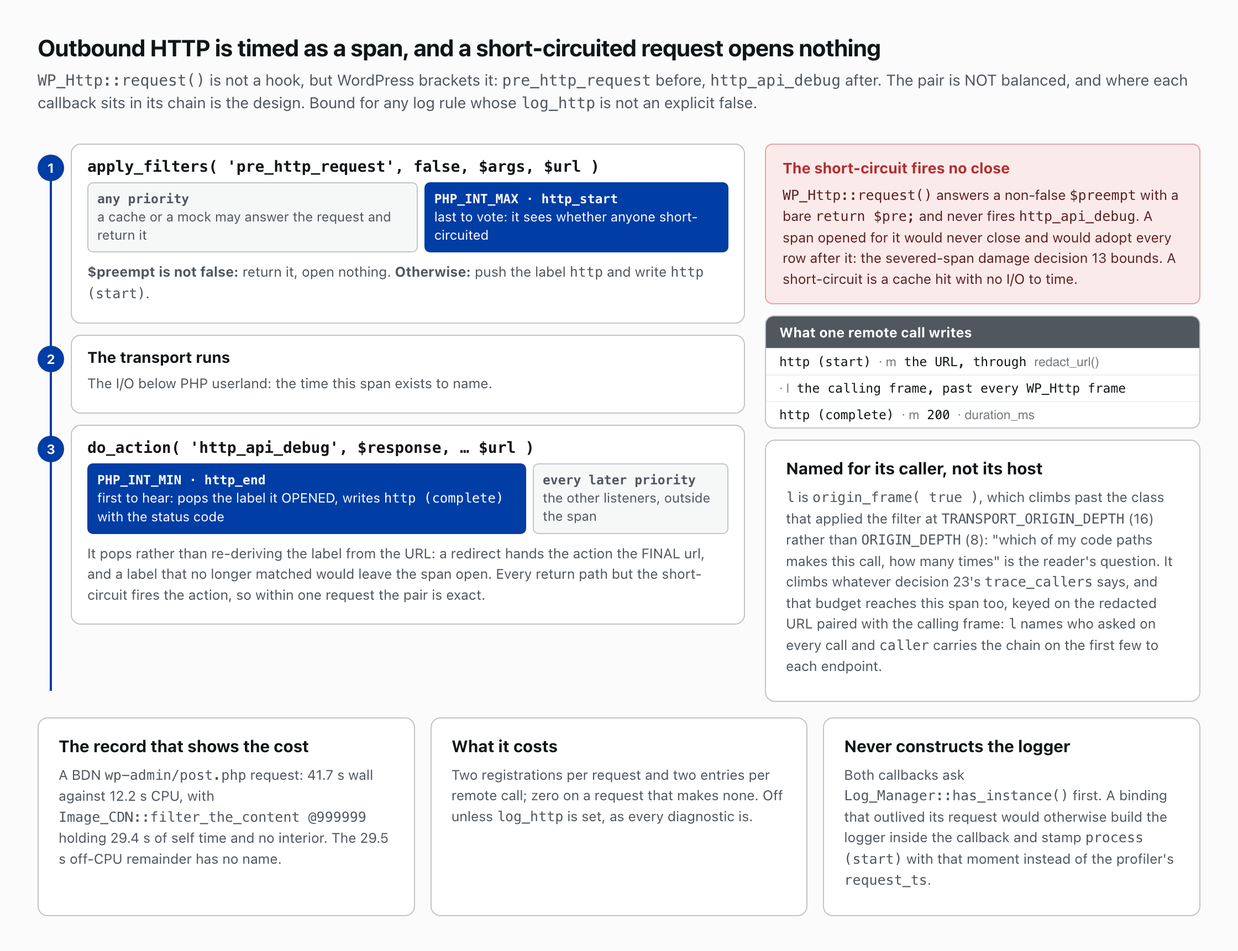
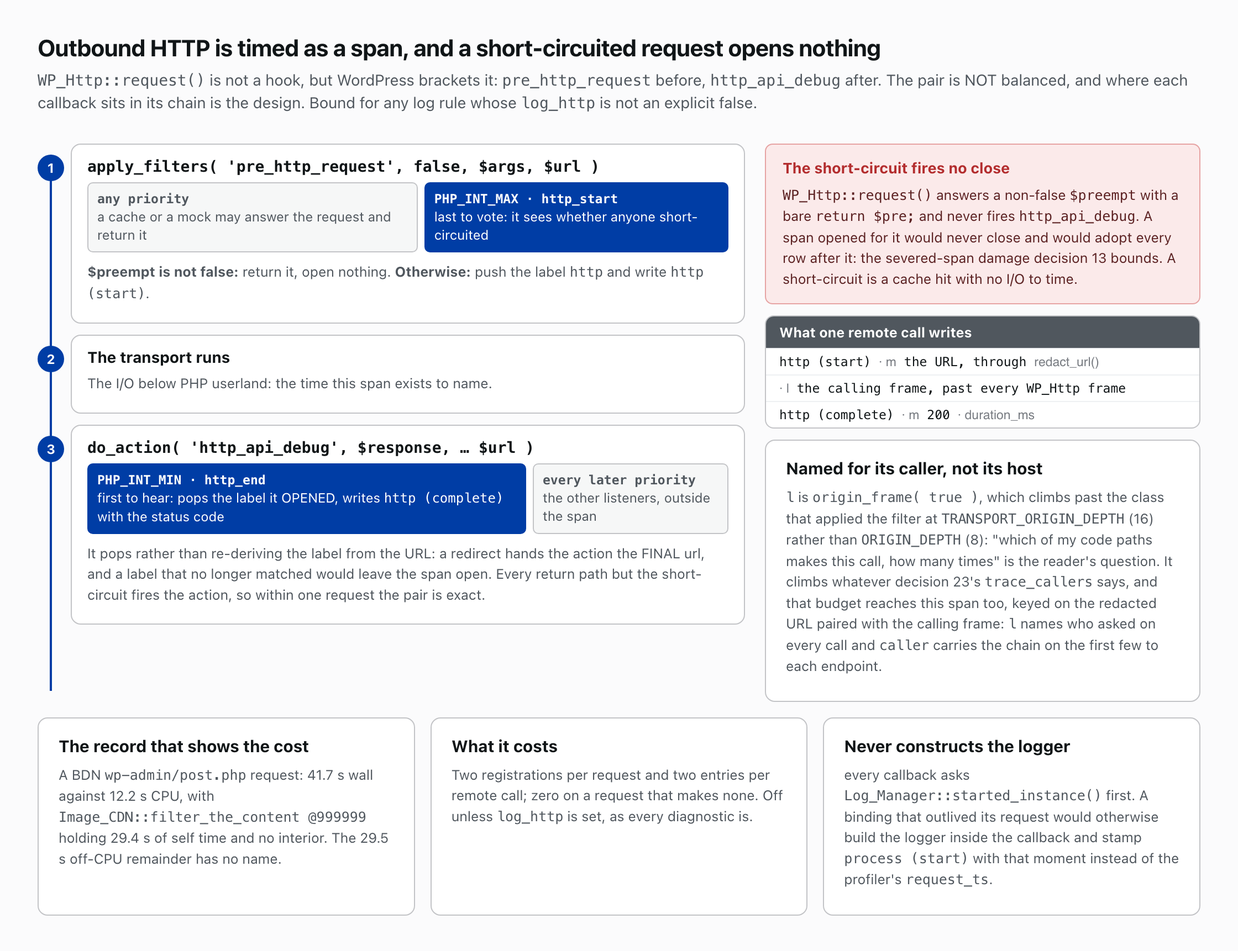
fix(core): a wrapped listener asks for a started logger; one seam for every callback
Cycle two's ADR pass. The permanent callback wrapper called
Log_Manager::instance() ungated, so a wrapper outliving its request
constructed the logger inside a callback, the case decision 20 was
written for; it now asks started_instance() like every other callback
and calls through untimed when there is nowhere to log. hook_start(),
query_end() and http_end() read the same seam. Flame_Tree::listener_name()
mints what is_listener_span() reads, pinned by a test with a negative
priority, and Rule::logs_transport() has its own. Decision 5 names
measured() on both sides, decision 20 names the seam, decision 27 has its
AGENTS row and a live link, two diagram sheets stop calling log_http on
by default, and the post-release changes are in the CHANGELOG.

Changed region(s): [[0.6875, 0.8002, 0.9375, 0.9541]]

diff --git a/docs/img/ag-request-lifecycle.html b/docs/img/ag-request-lifecycle.html
@@ -45,7 +45,7 @@
     <p><span class="mono">wrap_callbacks()</span> wraps only priorities strictly between the start and the spacer, so the three never wrap themselves; it skips any callback whose reflection reports a by-reference parameter; each wrapper claims <span class="mono">accepted_args = 99</span> and slices back to the original's count. The spacer absorbs the pointer shift a self-removing filter (es-wp-query) causes, so <span class="mono">hook_complete</span> still fires. A rule with <span class="mono">trace_hooks</span> puts the calling frame on <span class="mono">l</span>.</p></div></div>
   <div class="ev"><div class="when"><b>per rule</b>two transport pairs</div><div class="card">
     <div class="pair">
-      <div><h3>Outbound HTTP, <span class="mono">log_http</span> on by default</h3><p><span class="mono">http_start</span> on <span class="mono">pre_http_request</span> at <span class="mono">PHP_INT_MAX</span>, after every short-circuiting filter has voted, and opens NOTHING when <span class="mono">$preempt</span> is not false. <span class="mono">http_end</span> on <span class="mono">http_api_debug</span> at <span class="mono">PHP_INT_MIN</span>, so the span covers the request rather than the other listeners there, closing the label it opened.</p></div>
+      <div><h3>Outbound HTTP, under <span class="mono">log_http</span></h3><p><span class="mono">http_start</span> on <span class="mono">pre_http_request</span> at <span class="mono">PHP_INT_MAX</span>, after every short-circuiting filter has voted, and opens NOTHING when <span class="mono">$preempt</span> is not false. <span class="mono">http_end</span> on <span class="mono">http_api_debug</span> at <span class="mono">PHP_INT_MIN</span>, so the span covers the request rather than the other listeners there, closing the label it opened.</p></div>
       <div><h3>SQL, <span class="mono">log_queries</span> off by default</h3><p><span class="mono">query_start</span> on the <span class="mono">query</span> filter at <span class="mono">hook_start_priority</span>, ahead of the chain, so the span covers every rewrite; <span class="mono">query_end</span>, the one that sees the rewritten SQL, on <span class="mono">log_query_custom_data</span> at <span class="mono">PHP_INT_MIN</span>, which fires only under <span class="mono">SAVEQUERIES</span>. It drains <span class="mono">$wpdb-&gt;queries</span>, so Query Monitor would find it empty.</p></div>
     </div>
     <p>Both spans label <span class="mono">l</span> with <span class="mono">origin_frame( true )</span>, which climbs past the transport class, up to <span class="mono">TRANSPORT_ORIGIN_DEPTH</span> 16 frames, to the code that asked. It climbs whatever <span class="mono">trace_callers</span> says, and that budget reaches these spans as well as a hook: <span class="mono">l</span> names one frame on every call, <span class="mono">caller</span> carries the deeper chain while the budget for that statement shape or URL lasts.</p></div></div>

diff --git a/docs/img/api-request-hooks.html b/docs/img/api-request-hooks.html
@@ -41,7 +41,7 @@
       </div>
       <p>Two more pairs, each closed ahead of the other listeners so the span covers the work and not its audience. The HTTP pair opens after every filter that could short-circuit the call; the query pair opens ahead of the filter chain:</p>
       <div class="pri">
-        <div class="chip"><b>log_http (absent means ON)</b><span class="m">pre_http_request @ PHP_INT_MAX</span> (3 args) opens <span class="m">http</span>, and only when <span class="m">$preempt</span> is false: a short-circuit fires no <span class="m">http_api_debug</span>, so a span opened for one would never close. <span class="m">http_api_debug @ PHP_INT_MIN</span> (5 args) closes it with the status code.</div>
+        <div class="chip"><b>log_http (off unless set)</b><span class="m">pre_http_request @ PHP_INT_MAX</span> (3 args) opens <span class="m">http</span>, and only when <span class="m">$preempt</span> is false: a short-circuit fires no <span class="m">http_api_debug</span>, so a span opened for one would never close. <span class="m">http_api_debug @ PHP_INT_MIN</span> (5 args) closes it with the status code.</div>
         <div class="chip"><b>log_queries (default off)</b>defines <span class="m">SAVEQUERIES</span> if it is not already. <span class="m">query @ hook_start_priority</span> opens <span class="m">sql</span> ahead of the filter chain, so a significant <span class="m">query</span> hook's wrapped callbacks nest inside it; <span class="m">log_query_custom_data @ PHP_INT_MIN</span> (5 args) closes it with the rewritten statement, literals replaced, and drains <span class="m">$wpdb-&gt;queries</span>.</div>
       </div>
       <p class="aside">The same closure also registers the job-context filter and action, the <span class="m">newspack_nodes/settings_sync/value</span> resolver, and the MCP route on <span class="m">rest_api_init</span>; the three service CIs mount later, on <span class="m">newspack_nodes/request_graph_ready</span>, when a command request builds its graph.</p>

diff --git a/docs/img/dec-http-span.html b/docs/img/dec-http-span.html
@@ -61,6 +61,6 @@
   <div class="card"><h3>What it costs</h3>
     <p>Two registrations per request and two entries per remote call; zero on a request that makes none. Off unless <span class="mono">log_http</span> is set, as every diagnostic is.</p></div>
   <div class="card"><h3>Never constructs the logger</h3>
-    <p>Both callbacks ask <span class="mono">Log_Manager::has_instance()</span> first. A binding that outlived its request would otherwise build the logger inside the callback and stamp <span class="mono">process (start)</span> with that moment instead of the profiler's <span class="mono">request_ts</span>.</p></div>
+    <p>every callback asks <span class="mono">Log_Manager::started_instance()</span> first. A binding that outlived its request would otherwise build the logger inside the callback and stamp <span class="mono">process (start)</span> with that moment instead of the profiler's <span class="mono">request_ts</span>.</p></div>
 </div>
 </div>

diff --git a/includes/app/class-core.php b/includes/app/class-core.php
@@ -91,6 +91,9 @@ class Core {
 	 */
 	private const SQL_STATE  = Flame_Tree::SQL_STATE;
 
+	/** The state an outbound HTTP span is logged under. */
+	private const HTTP_STATE = Flame_Tree::HTTP_STATE;
+
 	/** The hook the SQL span rides; also the one it makes a generic pair redundant on. */
 	private const QUERY_HOOK = 'query';
 
@@ -166,7 +169,6 @@ class Core {
 
 	/** What a string has to open with before it is treated as a statement. */
 	private const SQL_LEAD = '/\A\s*(?:SELECT|INSERT|UPDATE|DELETE|REPLACE|SHOW|DESCRIBE|EXPLAIN|CREATE|ALTER|DROP|TRUNCATE)\b/i';
-	private const HTTP_STATE = Flame_Tree::HTTP_STATE;
 
 	/** Dispatchers between a hook and its caller; flipped for O(1) lookup. */
 	private const HOOK_DISPATCHERS = [
@@ -245,8 +247,8 @@ class Core {
 	 */
 	public function hook_start( $v = null ) {
 		// Resolve LM fresh per-call so suspend/resume gets the current scope.
-		$lm = Log_Manager::instance();
-		if ( ! $lm->is_started() ) {
+		$lm = Log_Manager::started_instance();
+		if ( null === $lm ) {
 			return $v;
 		}
 
@@ -637,10 +639,14 @@ class Core {
 				}
 
 				// Wrap timing; resolve LM per-call to survive suspend/resume.
-				$label   = self::short_name( $original ) . Flame_Tree::LISTENER_SEPARATOR . $priority;
+				$label   = Flame_Tree::listener_name( self::short_name( $original ), $priority );
 				$wrapper = function () use ( $original, $accepted_args, $label ) {
-					$lm   = Log_Manager::instance();
 					$args = \array_slice( \func_get_args(), 0, $accepted_args );
+					// Outlives its request: nowhere to log, call through.
+					$lm = Log_Manager::started_instance();
+					if ( null === $lm ) {
+						return \call_user_func_array( $original, $args );
+					}
 					$lm->start( $label, [ 'l' => '' ] );
 					try {
 						$result = \call_user_func_array( $original, $args );
@@ -848,12 +854,13 @@ class Core {
 	 */
 	public function query_end( $data = null, string $query = '', float $query_time = 0.0, string $callstack = '', float $query_start = 0.0 ) {
 		$label = \array_pop( $this->query_spans );
-		if ( null === $label || ! Log_Manager::has_instance() ) {
+		$lm = Log_Manager::started_instance();
+		if ( null === $label || null === $lm ) {
 			return $data;
 		}
 		// Only here is the statement the one the database was actually asked.
 		$sql = self::without_literals( self::without_host_annotation( $query ) );
-		Log_Manager::instance()->complete( $label, '' === $sql ? [] : [ 'm' => $sql ], shaped: true );
+		$lm->complete( $label, '' === $sql ? [] : [ 'm' => $sql ], shaped: true );
 		// `property_exists`: never CREATE it on a double that has none.
 		if ( isset( $GLOBALS['wpdb'] ) && \is_object( $GLOBALS['wpdb'] )
 			&& \property_exists( $GLOBALS['wpdb'], 'queries' ) ) {
@@ -946,12 +953,13 @@ class Core {
 	 */
 	public function http_end( $response = null, string $context = '', string $class = '', array $args = [], string $url = '' ): void {
 		$label = \array_pop( $this->http_spans );
-		if ( null === $label || ! Log_Manager::has_instance() ) {
+		$lm = Log_Manager::started_instance();
+		if ( null === $label || null === $lm ) {
 			return;
 		}
 		$inner = \is_array( $response ) ? RuntimeCore::arr( $response['response'] ?? null, [] ) : [];
 		$code  = RuntimeCore::as_string( $inner['code'] ?? '', '' );
-		Log_Manager::instance()->complete( $label, '' === $code ? [] : [ 'm' => $code ] );
+		$lm->complete( $label, '' === $code ? [] : [ 'm' => $code ] );
 	}
 
 	/**

diff --git a/tests/unit/AppCoreTest.php b/tests/unit/AppCoreTest.php
@@ -1477,6 +1477,26 @@ class AppCoreTest extends TestCase {
 		$this->assertSame( 99, $wp_filter['the_content']->callbacks[10]['test_cb']['accepted_args'] );
 	}
 
+	/** A wrapper outlives its request; firing with no logger, it runs the original and constructs nothing. */
+	public function test_a_wrapper_firing_without_a_logger_constructs_none_and_calls_through(): void {
+		$this->require_priority_aware_add_filter_or_skip();
+		$this->set_governing_rule(
+			new Rule( 'r', '/', Rule::ACTION_LOG, hooks: [ 'the_content' ], significant_events: [ 'the_content' ] )
+		);
+		$core = new Core();
+		$GLOBALS['_wp_test_current_filter'] = 'the_content';
+		$hook            = new \WP_Hook();
+		$hook->callbacks = [ 10 => [ 'cb' => [ 'function' => static fn ( $v ) => $v . ' seen', 'accepted_args' => 1 ] ] ];
+		global $wp_filter;
+		$wp_filter['the_content'] = $hook;
+		$core->hook_start( 'x' );
+		$wrapped = $wp_filter['the_content']->callbacks[10]['cb']['function'];
+		Log_Manager::reset();
+
+		$this->assertSame( 'body seen', $wrapped( 'body' ) );
+		$this->assertFalse( Log_Manager::has_instance() );
+	}
+
 	public function test_wrap_callbacks_skips_start_priority(): void {
 		$this->require_priority_aware_add_filter_or_skip();
 		$this->use_config( [

diff --git a/includes/class-flame-tree.php b/includes/class-flame-tree.php
@@ -45,8 +45,8 @@ final class Flame_Tree {
 	/** What `App\Core::hook_start()` appends to a hook's name to make its span's. */
 	public const HOOK_SUFFIX = ' hook';
 
-	/** What `App\Core::wrap_callbacks()` puts between a listener's callable and its priority. */
-	public const LISTENER_SEPARATOR = ' @';
+	/** What `listener_name()` puts between a listener's callable and its priority. */
+	private const LISTENER_SEPARATOR = ' @';
 
 	/**
 	 * A wrapped listener's span: `<callable> @<priority>`, built from the
@@ -553,6 +553,18 @@ final class Flame_Tree {
 	public static function base_name( string $name ): string {
 		$at = \strpos( $name, ': ' );
 		return false === $at ? $name : \substr( $name, 0, $at );
+	}
+
+	/**
+	 * A wrapped listener's span name, as `App\Core::wrap_callbacks()` mints it
+	 * and `is_listener_span()` reads it: one format, one owner.
+	 *
+	 * @param string $callable The listener's short name.
+	 * @param int    $priority The priority it is registered at, sign and all.
+	 * @return string
+	 */
+	public static function listener_name( string $callable, int $priority ): string {
+		return $callable . self::LISTENER_SEPARATOR . $priority;
 	}
 
 	/**

diff --git a/tests/unit/RuleTest.php b/tests/unit/RuleTest.php
@@ -4,6 +4,7 @@ declare( strict_types=1 );
 namespace Newspack_Event_Logger_Nodes\Tests\Unit;
 
 use PHPUnit\Framework\TestCase;
+use Newspack_Event_Logger_Nodes\Flame_Tree;
 use Newspack_Event_Logger_Nodes\Rule;
 
 final class RuleTest extends TestCase {
@@ -175,5 +176,15 @@ final class RuleTest extends TestCase {
 		$this->assertTrue( $rule->marks_significant( 'sql' ) );
 		$this->assertFalse( $rule->marks_significant( 'the_content hook' ) );
 		$this->assertFalse( $rule->marks_significant( 'wp_loaded' ) );
+	}
+
+	/** Each transport's gate is its own flag, and a name that is no transport is refused. */
+	public function test_logs_transport_reads_the_flag_its_span_needs(): void {
+		$rule = new Rule( 'a1b2c3d4e5f6', '/calendar/today', Rule::ACTION_LOG, log_http: true );
+
+		$this->assertTrue( $rule->logs_transport( Flame_Tree::HTTP_STATE ) );
+		$this->assertFalse( $rule->logs_transport( Flame_Tree::SQL_STATE ) );
+		$this->expectException( \InvalidArgumentException::class );
+		$rule->logs_transport( 'the_content' );
 	}
 }

diff --git a/tests/unit/FlameTreeTest.php b/tests/unit/FlameTreeTest.php
@@ -408,4 +408,10 @@ class FlameTreeTest extends TestCase {
 		$this->assertFalse( Flame_Tree::is_hook_span( 'wp_loaded' ) );
 		$this->assertFalse( Flame_Tree::is_hook_span( 'sync remote plugin' ) );
 	}
+
+	/** The name the minter builds is the name the classifier reads, sign included. */
+	public function test_listener_name_is_what_is_listener_span_reads(): void {
+		$this->assertTrue( Flame_Tree::is_listener_span( Flame_Tree::listener_name( 'Image_CDN::filter_the_content', -5 ) ) );
+		$this->assertSame( 'Image_CDN::filter_the_content @999999', Flame_Tree::listener_name( 'Image_CDN::filter_the_content', 999999 ) );
+	}
 }

diff --git a/includes/class-log-manager.php b/includes/class-log-manager.php
@@ -945,6 +945,8 @@ class Log_Manager {
 	 * span opened by a binding that outlived its request would build the
 	 * logger at that moment — stamping `process (start)` with the callback's
 	 * time rather than the mu-profiler's `request_ts`.
+	 *
+	 * @api Used by tests, which ask whether instrumentation constructed a logger.
 	 */
 	public static function has_instance(): bool {
 		return null !== self::$instance;

diff --git a/docs/architecture-decisions.md b/docs/architecture-decisions.md
@@ -80,7 +80,7 @@ A memcache schema change here is migrated by the substrate's flush, `wp nodes me
 
 ![The salt rotation drawn on two key forms. Left, memcache: a stats key as the substrate Table writes it through Cache_Backend::site_key(), newspack_nodes:{v}: then a 12-hex scope, the first 12 hex of md5(DB_NAME : table prefix : salt), then :table:evlog:p0:hourly and the bucket. wp nodes memcache flush runs Cache_Backend::rotate_salt(), which stores a new salt, and the same logical key moves under a new scope while the old key sits in memcache until its TTL with nothing ever asking for it; Stats_Store keeps no salt of its own, and a long-running worker memoizes the scope, so workers restart for immediate effect. Right, the durable mirror: evlog:p0:{key} carries no install scope, so the rotation reaches nothing on disk, and the key carries no version component — a frame the merge cannot name is refused by sum_entry(), contributes nothing and leaves with its retention window. Below: skipping the flush reads garbage for one retention window, an operator error with a one-command fix; no reader or writer carries a shape probe, a version component in a memcache key or a row-level legacy test; and schema bumps and emergency flushes share the one rotation.](img/dec-salt-rotation.png)
 
-**The durable mirror is the one tier the button does not reach**, by [decision 10](#decision-10-the-durable-mirror-writes-a-bucket-once-when-it-closes-under-a-key-that-carries-no-install-scope), and it takes no version component of its own to compensate. `sum_entry()` rebuilds an entry from its field table, so an entry the flush TOUCHES cannot come out a hybrid of two shapes — it comes out zeros. It is the UNTOUCHED entry that needs answering, because `sum_fields()` starts from the stored bucket and re-derives only the keys the incoming flush names, so a stale one is copied through verbatim. **What removes those is the zero-count filter, and only four namespaces have one**: an entry whose shape the table cannot name reads its count index as absent, so `cap_dim()` and `fold_categories()` drop it at the next write to its bucket, clearing `dim`, `url_dim`, `categories` and `url_cat`. **The rest are the exposure**, and none of them rebuilds: `add_totals()` replaces its sum onto the stored `hourly` bucket so a field outside `HOURLY_SUMS` rides through, `merge_leaderboard_bucket()` rebuilds only the categories the flush names in `lb` and `lb_s`, the `urls` row and `url` merge by passthrough — `url` only when `set_flame_topn` is non-zero, since 0 mirrors none — and `urlnames` and `urlmap` have no field table at all. A shape change to those is migrated by the flush, by one retention window, and by nothing else: the price of keeping one migration mechanism rather than two, and the reason to weigh a shape change there rather than the reason to build a lever.
+**The durable mirror is the one tier the button does not reach**, by [decision 10](#decision-10-the-durable-mirror-writes-a-bucket-once-when-it-closes-under-a-key-that-carries-no-install-scope), and it takes no version component of its own to compensate. `sum_entry()` rebuilds an entry from its field table, so an entry the flush TOUCHES cannot come out a hybrid of two shapes — it comes out zeros. It is the UNTOUCHED entry that needs answering, because `sum_fields()` starts from the stored bucket and re-derives only the keys the incoming flush names, so a stale one is copied through verbatim. **What removes those is the zero-count filter, and only four namespaces have one**: an entry whose shape the table cannot name reads its count index as absent, so `Stats_Store::measured()` drops it, at the writer's next write to its bucket through `cap_dim()` and `fold_categories()` and at every read through `Performance_CI_Node`'s merges, clearing `dim`, `url_dim`, `categories` and `url_cat`. **The rest are the exposure**, and none of them rebuilds: `add_totals()` replaces its sum onto the stored `hourly` bucket so a field outside `HOURLY_SUMS` rides through, `merge_leaderboard_bucket()` rebuilds only the categories the flush names in `lb` and `lb_s`, the `urls` row and `url` merge by passthrough — `url` only when `set_flame_topn` is non-zero, since 0 mirrors none — and `urlnames` and `urlmap` have no field table at all. A shape change to those is migrated by the flush, by one retention window, and by nothing else: the price of keeping one migration mechanism rather than two, and the reason to weigh a shape change there rather than the reason to build a lever.
 
 *Alternatives rejected:* a schema-version component in the key prefix, a permanent extra component on every key, for the identical orphaning the salt already does; detect-and-purge at boot (memcached cannot enumerate, and a boot pass over the whole keyspace is [decision 6](#decision-6-get_multi-batching-is-essential)'s latency cliff). **Revisit when** a deploy can no longer be relied on to rotate, at which point the mechanism to add is one that forces the button, not one that tolerates its absence.
 
@@ -258,9 +258,9 @@ The record reaches `Flame_Builder_Node` at completion, so filing it under `times
 
 Without these spans a request that spends its time below PHP userland reports as unmeasured, the one answer a reader cannot act on. A BDN `wp-admin/post.php` record shows the cost: 41.7s wall against 12.2s CPU, with `Image_CDN::filter_the_content @999999` holding 29.4s of self time and no interior, so the 29.5s off-CPU remainder has no name. A hook cannot reach it, since `WP_Http::request()` is not a hook, but WordPress brackets the call: `pre_http_request` before, `http_api_debug` after. [`App\Core`](../includes/app/class-core.php) binds that pair for every log rule whose `log_http` is set, so the span costs two registrations per request and two entries per remote call. **The pair is NOT balanced, and that asymmetry is the whole design.**
 
-![The outbound-HTTP span as a priority ladder. Step 1, apply_filters('pre_http_request', false, $args, $url): any filter may answer the request and return it, and http_start sits at PHP_INT_MAX, last to vote, so it opens nothing when $preempt is not false and otherwise pushes the label http and writes http (start). Step 2, the transport runs: the I/O below PHP userland the span exists to name. Step 3, do_action('http_api_debug'): http_end at PHP_INT_MIN hears it first, pops the label it opened rather than re-deriving it from a URL a redirect may have changed, and writes http (complete) with the status code, ahead of the other listeners. Beside it: WP_Http::request() answers a short-circuit with a bare return $pre; and never fires http_api_debug, so a span opened for it would never close and would adopt every row after it, the damage decision 13 bounds; the entry pair one remote call writes, m the redacted URL and l the calling frame; and the caller label, origin_frame(true), climbing past WP_Http at TRANSPORT_ORIGIN_DEPTH 16 rather than ORIGIN_DEPTH 8 whatever trace_callers says, with that budget reaching this span too, keyed on the redacted URL paired with the calling frame, so l names who asked on every call and caller carries the chain on the first few to each endpoint. Footer cards: the BDN wp-admin/post.php record, 41.7 s wall against 12.2 s CPU with 29.4 s of self time in Image_CDN::filter_the_content @999999 and a 29.5 s off-CPU remainder with no name; the cost, two registrations per request and two entries per remote call, under log_http; and both callbacks asking Log_Manager::has_instance() first so instrumentation never constructs the logger.](img/dec-http-span.png)
+![The outbound-HTTP span as a priority ladder. Step 1, apply_filters('pre_http_request', false, $args, $url): any filter may answer the request and return it, and http_start sits at PHP_INT_MAX, last to vote, so it opens nothing when $preempt is not false and otherwise pushes the label http and writes http (start). Step 2, the transport runs: the I/O below PHP userland the span exists to name. Step 3, do_action('http_api_debug'): http_end at PHP_INT_MIN hears it first, pops the label it opened rather than re-deriving it from a URL a redirect may have changed, and writes http (complete) with the status code, ahead of the other listeners. Beside it: WP_Http::request() answers a short-circuit with a bare return $pre; and never fires http_api_debug, so a span opened for it would never close and would adopt every row after it, the damage decision 13 bounds; the entry pair one remote call writes, m the redacted URL and l the calling frame; and the caller label, origin_frame(true), climbing past WP_Http at TRANSPORT_ORIGIN_DEPTH 16 rather than ORIGIN_DEPTH 8 whatever trace_callers says, with that budget reaching this span too, keyed on the redacted URL paired with the calling frame, so l names who asked on every call and caller carries the chain on the first few to each endpoint. Footer cards: the BDN wp-admin/post.php record, 41.7 s wall against 12.2 s CPU with 29.4 s of self time in Image_CDN::filter_the_content @999999 and a 29.5 s off-CPU remainder with no name; the cost, two registrations per request and two entries per remote call, under log_http; and every callback asking Log_Manager::started_instance() first so instrumentation never constructs the logger.](img/dec-http-span.png)
 
-`WP_Http::request()` short-circuits with a bare `return $pre;` and never fires `http_api_debug` (`class-wp-http.php`), so a span opened before the short-circuit would never close and would adopt every row after it: the severed-span damage [decision 13](#decision-13-a-sequence-break-marker-is-missing-detail-not-idle-time) exists to bound. So `http_start` binds at **PHP_INT_MAX**, after every short-circuiting filter has voted, and opens nothing when `$preempt` is not false: a short-circuit is a cache hit with no I/O to time. A rule marking `http` significant gets that filter's listeners wrapped by `http_wrap`, bound at PHP_INT_MIN ahead of the chain on each call, the shape `hook_start` uses — `http_start` votes last, so from there a listener could only be wrapped for the NEXT call — so a short-circuiting listener's own cost shows where the span would have been. Every other return path fires the action, so within one request the pair is exact. `http_end` binds at PHP_INT_MIN so the span covers the request and not the other listeners on that action, and it closes the label it OPENED rather than one re-derived from the URL: a redirect hands the action the FINAL url, and a label that no longer matches leaves the span open. The span is named for its **caller**: `l` is `origin_frame( true )`, which climbs past every frame of the class that applied the filter, `WP_Http` here, at `TRANSPORT_ORIGIN_DEPTH` (16) rather than `ORIGIN_DEPTH` (8), because "which of my code paths makes this call, how many times" is the question a reader has; the redacted URL rides as the entry's value and the status code closes it. The climb runs whatever [decision 23](#decision-23-a-span-says-how-long-never-who-asked-two-knobs-answer-the-second-question-at-two-prices)'s `trace_callers` says, and taking the shallow walk under it is rejected: that budget reaches this span too, keyed on the redacted URL paired with the calling frame, so `l` names who asked on every call and `caller` carries the chain on the first few to each endpoint; the shallow walk would trade `l` for a microsecond or two. **Naming the HOST instead answers nothing**, because so many calls go to the same one. **Instrumentation never CONSTRUCTS the logger it reports into**: `Log_Manager::instance()` lazily creates a logger, so both callbacks ask `has_instance()` first; otherwise a binding that outlived its request would build the logger inside the callback and stamp `process (start)` with that moment instead of the mu-profiler's `request_ts`.
+`WP_Http::request()` short-circuits with a bare `return $pre;` and never fires `http_api_debug` (`class-wp-http.php`), so a span opened before the short-circuit would never close and would adopt every row after it: the severed-span damage [decision 13](#decision-13-a-sequence-break-marker-is-missing-detail-not-idle-time) exists to bound. So `http_start` binds at **PHP_INT_MAX**, after every short-circuiting filter has voted, and opens nothing when `$preempt` is not false: a short-circuit is a cache hit with no I/O to time. A rule marking `http` significant gets that filter's listeners wrapped by `http_wrap`, bound at PHP_INT_MIN ahead of the chain on each call, the shape `hook_start` uses — `http_start` votes last, so from there a listener could only be wrapped for the NEXT call — so a short-circuiting listener's own cost shows where the span would have been. Every other return path fires the action, so within one request the pair is exact. `http_end` binds at PHP_INT_MIN so the span covers the request and not the other listeners on that action, and it closes the label it OPENED rather than one re-derived from the URL: a redirect hands the action the FINAL url, and a label that no longer matches leaves the span open. The span is named for its **caller**: `l` is `origin_frame( true )`, which climbs past every frame of the class that applied the filter, `WP_Http` here, at `TRANSPORT_ORIGIN_DEPTH` (16) rather than `ORIGIN_DEPTH` (8), because "which of my code paths makes this call, how many times" is the question a reader has; the redacted URL rides as the entry's value and the status code closes it. The climb runs whatever [decision 23](#decision-23-a-span-says-how-long-never-who-asked-two-knobs-answer-the-second-question-at-two-prices)'s `trace_callers` says, and taking the shallow walk under it is rejected: that budget reaches this span too, keyed on the redacted URL paired with the calling frame, so `l` names who asked on every call and `caller` carries the chain on the first few to each endpoint; the shallow walk would trade `l` for a microsecond or two. **Naming the HOST instead answers nothing**, because so many calls go to the same one. **Instrumentation never CONSTRUCTS the logger it reports into**: `Log_Manager::instance()` lazily creates a logger, so every callback asks `started_instance()` first, the wrapped listeners included; otherwise a binding that outlived its request would build the logger inside the callback and stamp `process (start)` with that moment instead of the mu-profiler's `request_ts`.
 
 *Alternatives rejected:* a per-rule opt-in flag (a new `Rule` property, its serialization, its editor control and its migration, to gate two registrations and a per-call cost that is zero on the requests that make no remote calls); timing inside a `significant_events` wrapper on `http_api_debug` (that times the action's LISTENERS, which is not the request). **Revisit when** SQL wants the same treatment, though `$wpdb` offers no completion signal without `SAVEQUERIES`, so it is a different mechanism and not an extension of this one, or if a transport ever fires `http_api_debug` more than once for one request, which would pop a label that is still in flight. **Per-rule** (`log_http`), like decisions [22](#decision-22-query-spans-are-the-same-pair-as-decision-20-but-per-rule) and 24: a logged request pays two entries per outbound call whether or not a brief reads them. Off unless the rule sets it, as every diagnostic is, a stored rule that predates the flag included.
 
@@ -342,7 +342,7 @@ The statement is recorded data, so it leaves through [decision 25](#decision-25-
 
 ## Decision 27: The platform's requests to itself are worker traffic, named by path
 
-The cron loopback and the substrate's own endpoints — `/wp-json/newspack-nodes/v1/{command,log/stream,messages/stream,workers/spawn}` — are requests the platform makes to itself, and until 0.101.0 the shipped seed skipped every one, so the logger never logged the logger. A skip loses the record: a `command` poll that took nine seconds, or a spawn that fataled, left nothing to read. So the seed is the `/` log rule alone, and [`Log_Manager::PLATFORM_WORKERS`](../includes/class-log-manager.php) names each of those requests a worker by its path — `cron`, `command`, `stream`, `spawn` — as the `worker_type` entry `log_worker()` writes right after `process (start)`. The substrate's own processes name themselves through `NEWSPACK_NODES_WORKER_TYPE`, and that wins where it is set; the path answers where it is not, which for the spawn endpoint is always, since the substrate sets the var at REST dispatch, after the request was opened. A worker's record keeps every entry, sits on the worker shard's URL rows, and stays out of the global sums by [decision 15](#decision-15-worker-traffic-is-counted-per-url-and-excluded-from-the-global-sums).
+The cron loopback and the substrate's own endpoints — `/wp-json/newspack-nodes/v1/{command,log/stream,messages/stream,workers/spawn}` — are requests the platform makes to itself, and until 0.101.0 the shipped seed skipped every one, so the logger never logged the logger. A skip loses the record: a `command` poll that took nine seconds, or a spawn that fataled, left nothing to read. So the seed is the `/` log rule alone, and [`Log_Manager::PLATFORM_WORKERS`](../includes/class-log-manager.php) names each of those requests a worker by its path — `cron`, `command`, `stream`, `spawn` — as the `worker_type` entry `log_worker()` writes right after `process (start)`. The substrate's own processes name themselves through `NEWSPACK_NODES_WORKER_TYPE`, and that wins where it is set; the path answers where it is not, which for the spawn endpoint is always, since the substrate sets the var at REST dispatch, after the request was opened. A worker's record keeps every entry, sits on the worker shard's URL rows, and stays out of the global sums at [decision 24](#decision-24-a-duration-nobody-measured-is-not-a-timing-sample)'s `$count_global` gate.
 
 **The five paths are a copy the substrate does not know it owns.** `Http_In_Node`, `SSE_Out_Node`, `Log_Stream_Out_Node` and `Spawn_Controller` declare those routes in newspack-nodes; this plugin spells them again as literals, root-relative and `wp-json`-prefixed, as the seed's skips did before it. The failure on drift is chosen with open eyes: a route the substrate moves, a subdirectory install or a site rewriting its REST base yields a request `platform_worker_type()` does not name, and it lands on the global rows as visitor traffic. That is a misclassification the overview would show, where the skip list's failure was a record that never existed. The map is not derived from `rest_url()` or `site_url()` because the seed never was, and because a copy that nothing checks costs one line per route where a derivation costs a `get_option()` per request.
 

diff --git a/AGENTS.md b/AGENTS.md
@@ -181,6 +181,7 @@ Each is intentional, stated in full in [`docs/architecture-decisions.md`](docs/a
 | 24 | A duration nobody measured is not a timing sample | [Decision 24](docs/architecture-decisions.md#decision-24-a-duration-nobody-measured-is-not-a-timing-sample) |
 | 25 | Read tools and TUNE-scoped write tools share one MCP session, and every tool result is fenced | [Decision 25](docs/architecture-decisions.md#decision-25-read-tools-and-tune-scoped-write-tools-share-one-mcp-session-and-every-tool-result-is-fenced) |
 | 26 | A merged transport node keeps the statements it ran | [Decision 26](docs/architecture-decisions.md#decision-26-a-merged-transport-node-keeps-the-statements-it-ran) |
+| 27 | The platform's requests to itself are worker traffic, named by path | [Decision 27](docs/architecture-decisions.md#decision-27-the-platforms-requests-to-itself-are-worker-traffic-named-by-path) |
 
 ## Layout
 
@@ -256,7 +257,7 @@ Mistakes that have actually happened.
 
 - **Documentation map**: `docs/README.md` — the three chapters, then the reference set
 - **Architecture**: `docs/architecture-guide.md` — application design, topologies, hub/spoke flow, memcache schema
-- **Decisions**: `docs/architecture-decisions.md` — the 25 decisions, cited as "decision N"
+- **Decisions**: `docs/architecture-decisions.md` — the 27 decisions, cited as "decision N"
 - **Security model**: `docs/security-model.md` — what the logger captures, what crosses to the hub, the tradeoffs
 - **API**: `docs/API.md` — the one REST route (the MCP server), every service-CI verb, the two WP-CLI verbs, the PHP API sibling plugins log through, and the hooks fired and consumed
 - **Runtime**: `../newspack-nodes/` — the substrate this plugin depends on

diff --git a/CHANGELOG.md b/CHANGELOG.md
@@ -7,6 +7,23 @@ and this project adheres to [Semantic Versioning](https://semver.org/spec/v2.0.0
 
 ## [Unreleased]
 
+### Changed
+- **Every instrumentation callback asks `Log_Manager::started_instance()`**,
+  the wrapped listeners included: a wrapper outlives its request, and one
+  firing with nowhere to log now calls through untimed rather than
+  constructing the logger inside the callback.
+- **A dimensional value nothing measured is dropped on the read as well as
+  the write.** `Stats_Store::measured()` serves `Performance_CI_Node`'s merges
+  and the flame builder's caps alike, so a frame in the pre-positional shape
+  never charts as a flat zero line before the flush ages it out.
+- **`Flame_Tree` owns the listener span's name**: `listener_name()` mints it
+  and `is_listener_span()` reads it, beside the other span classifiers, and
+  the dashboard's callback rows accept a negative priority as the PHP side
+  does.
+- **A transport the rule does not log gets one answer**: the findings name the
+  `log_queries` or `log_http` that comes first, rather than proposing a mark
+  the binder would ignore.
+
 ## [0.101.0] - 2026-09-21
 
 ### Added
